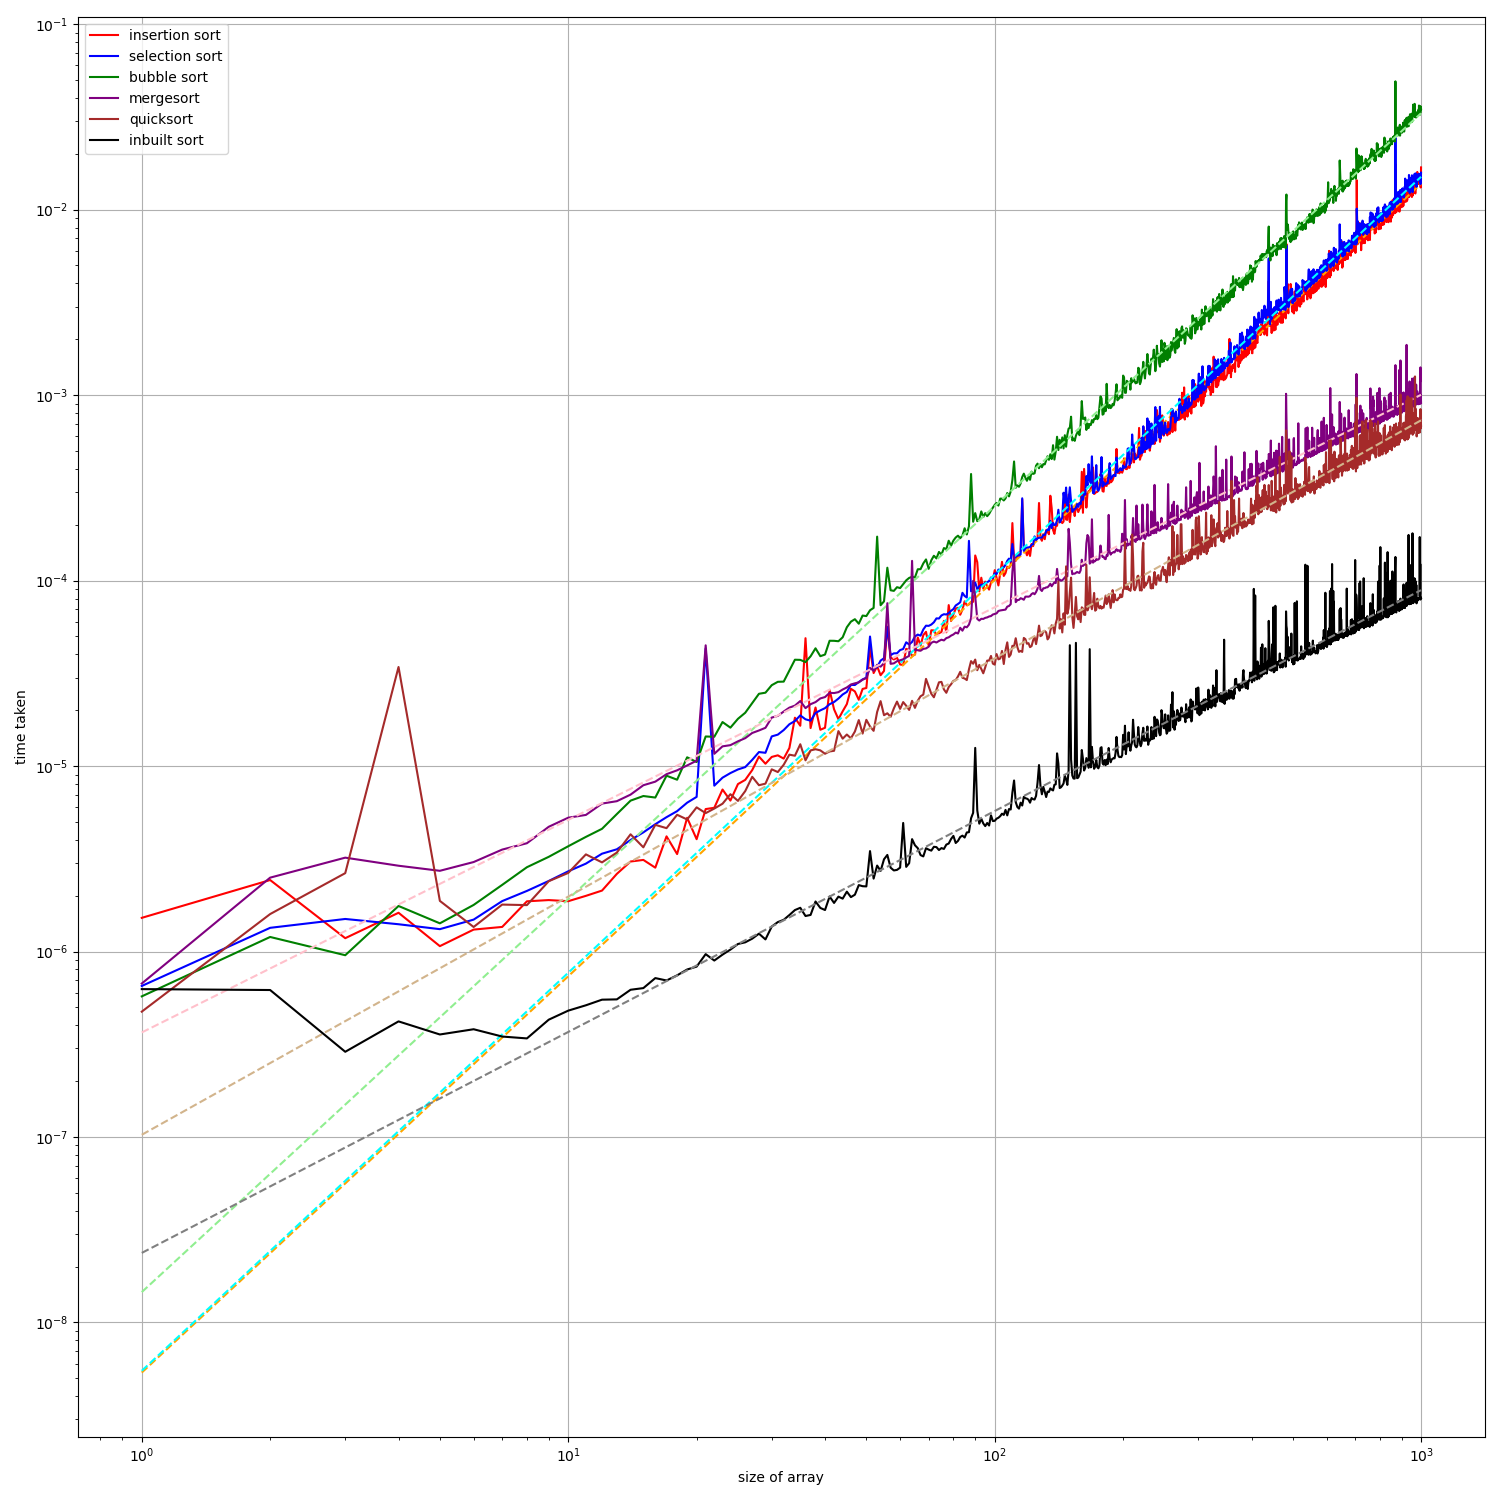
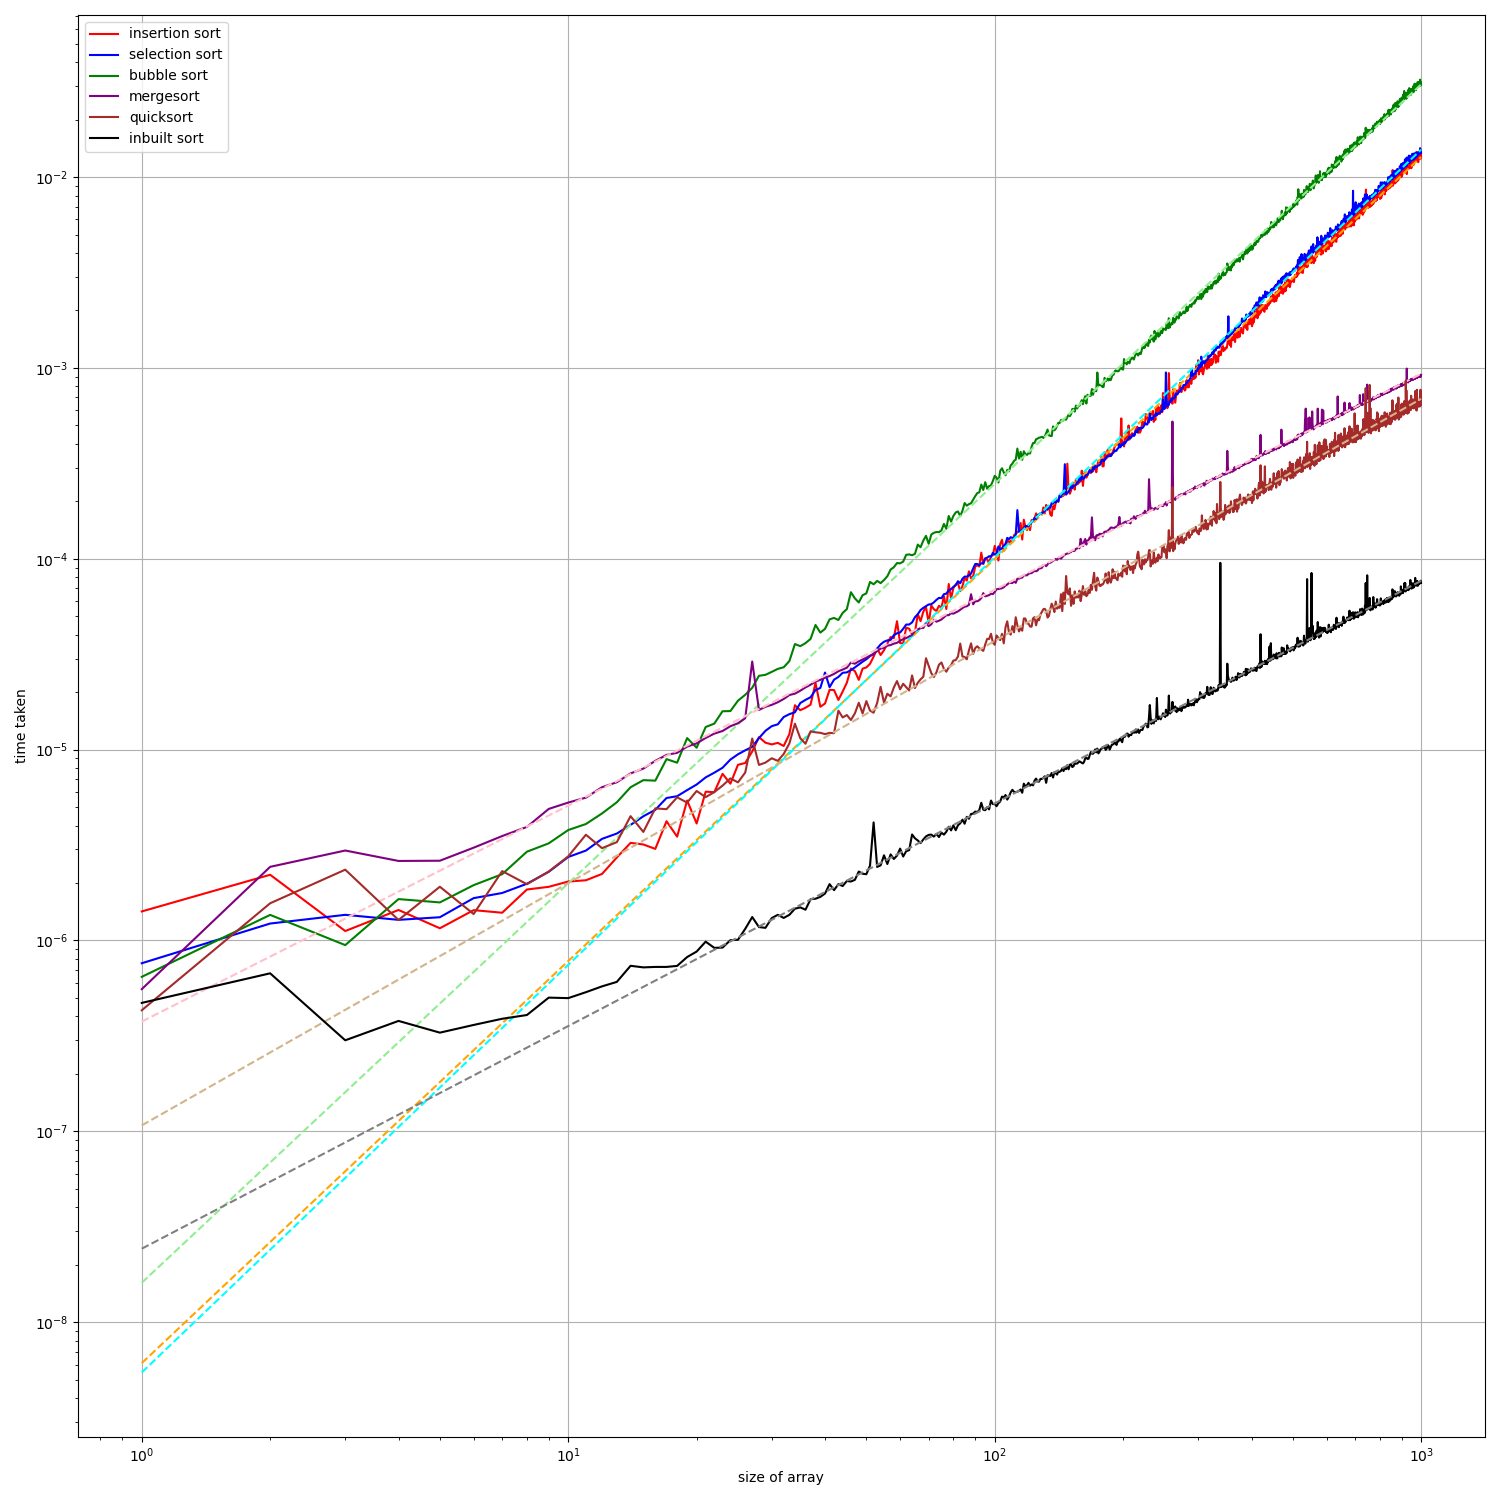
added an edge case

diff --git a/sort_analysis.py b/sort_analysis.py
@@ -133,36 +133,48 @@ for i in range(1,1000):
     end = time.perf_counter()
     if check_sorted(a1):
         t_ins.append(end-start)
+    else:
+        raise ValueError("Not sorted")
 
     start = time.perf_counter()
     selection_sort(a2)
     end = time.perf_counter()
     if check_sorted(a2):
         t_sel.append(end-start)
+    else:
+        raise ValueError("Not sorted")
 
     start = time.perf_counter()
     bubble_sort(a3)
     end = time.perf_counter()
     if check_sorted(a3):
         t_bub.append(end-start)
+    else:
+        raise ValueError("Not sorted")
 
     start = time.perf_counter()
     mergesort(a4)
     end = time.perf_counter()
     if check_sorted(a4):
         t_mer.append(end-start)
+    else:
+        raise ValueError("Not sorted")
 
     start = time.perf_counter()
     quicksort(a5, 0, i-1)
     end = time.perf_counter()
     if check_sorted(a5):
         t_qui.append(end-start)
+    else:
+        raise ValueError("Not sorted")
 
     start = time.perf_counter()
     a6.sort()
     end = time.perf_counter()
     if check_sorted(a6):
         t_inbuilt.append(end-start)
+    else:
+        raise ValueError("Not sorted")
 
 slope_ins, inter_ins = np.polyfit(np.log(ns[50:]), np.log(t_ins[50:]), 1)
 slope_sel, inter_sel = np.polyfit(np.log(ns[50:]), np.log(t_sel[50:]), 1)

diff --git a/README.md b/README.md
@@ -2,10 +2,10 @@
 
 Results: <br>
 Time complexities: <br>
-Insertion sort: $O(N^{2.137})$ <br>
-Selecion sort: $O(N^{2.146})$ <br>
-Bubble sort: $O(N^{2.119})$ <br>
-Mergesort: $O(N^{1.146})$ <br>
-Quicksort: $O(N^{1.284})$ <br>
-Inbuilt sort: $O(N^{1.191})$ <br>
+Insertion sort: $O(N^{2.107})$ <br>
+Selecion sort: $O(N^{2.136})$ <br>
+Bubble sort: $O(N^{2.093})$ <br>
+Mergesort: $O(N^{1.131})$ <br>
+Quicksort: $O(N^{1.269})$ <br>
+Inbuilt sort: $O(N^{1.166})$ <br>
 
